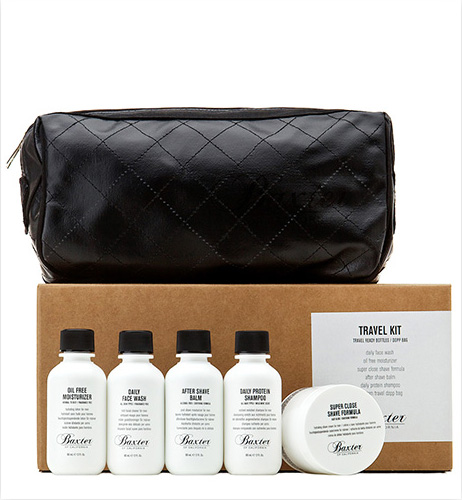
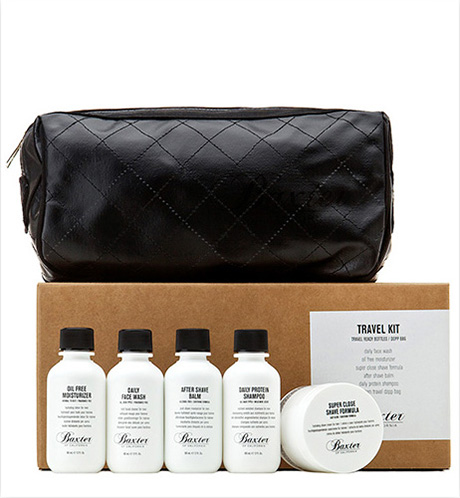
Сетка Барбершопа - черновик

diff --git a/css/style.css b/css/style.css
@@ -1,3 +1,110 @@
+html,
+body {
+  min-width: 1122px;
+  margin: 0;
+  padding: 0;
+}
+
+.clearfix::after {
+  content: "";
+  display: table;
+  clear: both;
+}
+
+.container {
+  width: 940px;
+  margin: 0 auto;
+  padding: 0 10px;
+  }
+
+/*Главное меню*/
+
+.main-header {
+  margin-bottom: 60px;
+}
+
+.main-navigation {
+  float: left;
+  width: 780px;
+  min-height: 70px;
+}
+
+.user-block {
+  float: right;
+  width: 140px;
+  min-height: 70px;
+}
+
+/*Главная - содержание*/
+
+.index-logo {
+  width: 368px;
+  min-height: 204px;
+  margin-right: auto;
+  margin-left: auto;
+  margin-bottom: 25px;
+}
+
+.features {
+  margin-bottom: 80px;
+}
+
+.features-item {
+  float: left;
+  width: 300px;
+  min-height: 175px;
+  margin-right: 20px;
+}
+
+.features-item:last-child {
+  margin-right: 0;
+}
+
+.index-content {
+  margin-bottom: 35px;
+  padding: 50px 80px;
+}
+
+.index-content-left {
+  float: left;
+  width: 380px;
+  min-height: 330px;
+}
+
+.index-content-right {
+  float: right;
+  width: 300px;
+  min-height: 330px;
+}
+
+/*Футер*/
+
+.main-footer {
+  margin-top: 65px;
+  padding-top: 60px;
+  padding-bottom: 40px;
+}
+
+.footer-contacts {
+  float: left;
+  width: 320px;
+  margin-right: 60px;
+  min-height: 90px;
+}
+
+.footer-social {
+  float: left;
+  width: 180px;
+  min-height: 90px;
+}
+
+.footer-copyright {
+  float: right;
+  width: 180px;
+  min-height: 90px;
+}
+
+/*Типографика*/
 
 .main-title {
   font-family: "Pt sans narrow";
@@ -9,13 +116,13 @@
 }
 
 .filters-title, .catalogitem-content-title {
-    font-family: "Pt sans narrow";
-    font-size: 24px;
-    line-height: 120%;
-    font-weight: "bold";
-    color: black;
-    text-transform: uppercase;
-  }
+  font-family: "Pt sans narrow";
+  font-size: 24px;
+  line-height: 120%;
+  font-weight: "bold";
+  color: black;
+  text-transform: uppercase;
+}
 
 body {
   font-family: "Pt sans narrow";
@@ -23,4 +130,72 @@ body {
   line-height: 120%;
   font-weight: "bold";
   color: black;
+}
+
+/*Каталог - содержание*/
+.
+.breadcrumbs {
+  margin-top:25px;
+  margin-bottom: 55px;
+}
+
+.filters {
+  width: 220px;
+  margin-right: 20px;
+  float: left;
+  text-transform: uppercase;
+}
+
+.goods-cards {
+  width: 700px;
+  float: right;
+}
+
+.goods {
+  width: 220px;
+  min-height: 680px;
+  min-height: 285px;
+  float: left;
+  margin-right: 20px;
+}
+
+.goods:nth-child(3n+3) {
+  float: right;
+  margin-right: 0px;
+}
+
+.paging-nav {
+  float: left;
+}
+
+/*Страница товара - содержание*/
+
+.photo {
+  width: 460px;
+  min-height: 670px;
+  margin-right: 90px;
+  float: left;
+}
+
+.main-photo {
+  margin-bottom: 20px;
+}
+
+.nav-photo {
+  width: 140px;
+  float: left;
+  margin-right: 20px;
+}
+.nav-photo:nth-child(3n+3) {
+  float: right;
+  margin-right: 0px;
+}
+
+.text {
+  width: 390px;
+  min-heigt: 670px;
+  float: right;
+  margin-right: 0px;
+  padding-top: 25px;
+  text-transform: uppercase;
 }

diff --git a/index.html b/index.html
@@ -7,7 +7,7 @@
   </head>
   <body>
     <header class="main-header">
-      <div class="container">
+      <div class="container clearfix">
         <nav class="main-navigation">
           <ul>
             <li>
@@ -36,7 +36,7 @@
       <div class="index-logo">
         <img src="img/index-logo.png" width="368" height="204" alt="Барбершоп «Бородинский»">
       </div>
-      <section class="features">
+      <section class="features clearfix">
         <div class="features-item">
           <b class="features-name">Быстро</b>
           <p>Мы делаем свою работу быстро! Два часа пролетят незаметно и вы — счастливый обладатель стильной стрижки-минутки!</p>
@@ -50,7 +50,7 @@
           <p>Наши мастера — профессионалы своего дела и не могут стоить дешево. К тому же, разве цена не дает определенный статус?</p>
         </div>
       </section>
-      <div class="index-content">
+      <div class="index-content clearfix">
         <div class="index-content-left">
           <h2 class="main-title">Новости</h2>
           <ul class="news-preview">
@@ -76,7 +76,7 @@
           </div>
         </div>
       </div>
-      <div class="index-content">
+      <div class="index-content clearfix">
         <div class="index-content-left">
           <h2 class="main-title">Контактная информация</h2>
           <p>
@@ -106,7 +106,7 @@
       </div>
     </main>
     <footer class="main-footer">
-      <div class="container">
+      <div class="container clearfix">
         <section class="footer-contacts">
           Барбершоп «Бородинский»<br>
           Адрес: г. Санкт-Петербург, Б. Конюшенная, д. 19/8<br>

diff --git a/catalog.html b/catalog.html
@@ -7,7 +7,7 @@
 </head>
 <body>
   <header class="main-header">
-    <div class="container">
+    <div class="container clearfix">
       <nav class="main-navigation">
         <ul>
           <li>
@@ -37,7 +37,7 @@
       </div>
     </div>
   </header>
-  <main class="container">
+  <main class="container clearfix">
     <h1 class="main-title">Средства для ухода</h1>
     <nav>
       <ul class="breadcrumbs">
@@ -153,26 +153,28 @@
           <a class="btn" href="#"> Купить</a>
         </div>
       </article>
+      <div class="paging-nav">
+        <nav class="pages">
+          <ul>
+            <li>
+              <a class="page-btn" href="#">1</a>
+            </li>
+            <li>
+              <a class="page-btn">2</a>
+            </li>
+            <li>
+              <a class="page-btn" href="#">3</a>
+            </li>
+            <li>
+              <a class="page-btn" href="#">4</a>
+            </li>
+          </ul>
+        </nav>
+      </div>
     </div>
-    <nav class="pages">
-      <ul>
-        <li>
-          <a class="page-btn" href="#">1</a>
-        </li>
-        <li>
-          <a class="page-btn">2</a>
-        </li>
-        <li>
-          <a class="page-btn" href="#">3</a>
-        </li>
-        <li>
-          <a class="page-btn" href="#">4</a>
-        </li>
-      </ul>
-    </nav>
   </main>
   <footer class="main-footer">
-    <div class="container">
+    <div class="container clearfix">
       <section class="footer-contacts">
         Барбершоп «Бородинский»<br>
         Адрес: г. Санкт-Петербург, Б. Конюшенная, д. 19/8<br>

diff --git a/catalog-item.html b/catalog-item.html
@@ -7,7 +7,7 @@
 </head>
 <body>
   <header class="main-header">
-    <div class="container">
+    <div class="container clearfix">
       <nav class="main-navigation">
         <ul>
           <li>
@@ -37,7 +37,7 @@
       </div>
     </div>
   </header>
-  <main class="container">
+  <main class="container clearfix">
     <h1 class="main-title">Набор для путешествий "Baxter of California"</h1>
     <nav>
       <ul class="breadcrumbs">
@@ -49,7 +49,7 @@
     </nav>
     <div class="photo">
       <div class="main-photo">
-        <img src="img/good1-big.jpg" alt="Крупное фото" width="462" height="500">
+        <img src="img/good1-big.jpg" alt="Крупное фото" width="460" height="500">
       </div>
       <div class="nav-photo">
         <img src="img/good1-pre1.jpg" alt="Превью" width="140" height="150">
@@ -81,7 +81,7 @@
     </div>
   </main>
   <footer class="main-footer">
-    <div class="container">
+    <div class="container clearfix">
       <section class="footer-contacts">
         Барбершоп «Бородинский»<br>
         Адрес: г. Санкт-Петербург, Б. Конюшенная, д. 19/8<br>
